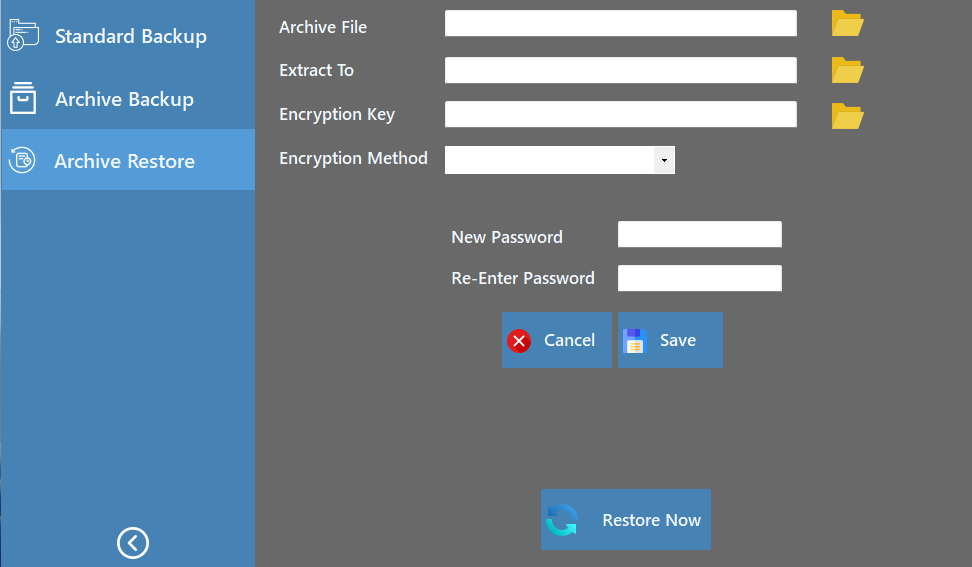
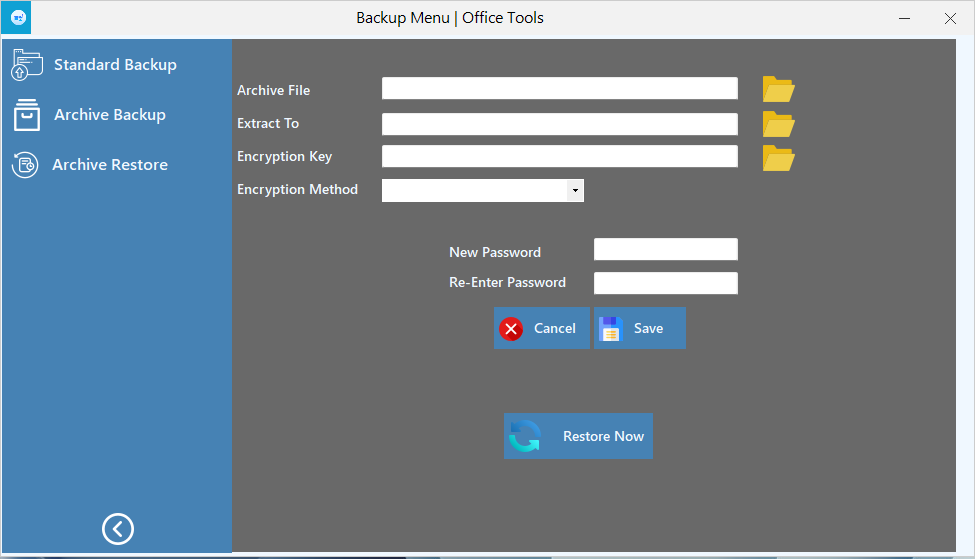
OfficeTools: Update Documentation

Changed region(s): [[0.0, 0.0, 1.0, 1.0], [0.463, 0.3649, 0.8025, 0.6691], [0.4938, 0.7299, 0.679, 0.8211]]

diff --git a/README.md b/README.md
@@ -1,11 +1,17 @@
 # Office Tools
-Customized application that have feature to backup your data with user preference time frames, by using windows task scheduler library, also have support with archiving folder that have feature to encrypt your password by using SHA-256 encryption. In addition by request, it also have feature with compress PDF file by using SyncFusion Library.
+Customized application that have feature to backup your data with user preference time frames, by using windows task scheduler library,
+also have support with archiving folder that have feature to encrypt your password by using SHA-256 encryption. 
+
+In addition by request, it also have feature with;
+- Compress, Merge and Split PDF file by using SyncFusion Library.
+- Export PDF into documents, spreadsheets and image file by using SautinSoft Library.
 
 # Additional library:
-- 7-Zip (7za Library)
+- 7-Zip (Archiver)
+- SautinSoft (PDF Export)
 - SHA-256 (Encryption / Decryption)
 - SyncFusion (PDF Compression)
-- Windows Task Scheduler (DLL)
+- Windows Task Scheduler (Automated Scheduler)
 
 # App Function
 - Normal Backup
@@ -60,15 +66,31 @@ Customized application that have feature to backup your data with user preferenc
   * Remove MetaData
   * Size (Before & After compression)
 
+- PDF Merge
+  * Source PDF
+  * Save Location
+  * PDF Merged Size
+
+- PDF Split
+  * Source PDF
+  * Save Location
+  
+- PDF Export
+  * Source PDF
+  * Save Location
+  * Export To (*.docx | *.xls | *.jpeg | *.png)
+  * Export Image only from PDF (*.jpeg | *.png)
+  
 # App Compatibility
 - [.NET Desktop Runtime 6.0](https://dotnet.microsoft.com/en-us/download/dotnet/6.0)
 
 # App Screenshoot
 <p align="left">
-<img width="480" height="240" src="https://raw.githubusercontent.com/Nicklas373/Office-Tools/main/Office%20Tools/Screenshots/Home.png">&nbsp;&nbsp;&nbsp;
-<img width="480" height="240" src="https://raw.githubusercontent.com/Nicklas373/Office-Tools/main/Office%20Tools/Screenshots/App_information.png">&nbsp;&nbsp;&nbsp;
-<img width="480" height="240" src="https://raw.githubusercontent.com/Nicklas373/Office-Tools/main/Office%20Tools/Screenshots/Weekly_scheduler.png">&nbsp;&nbsp;&nbsp;
-<img width="480" height="240" src="https://raw.githubusercontent.com/Nicklas373/Office-Tools/main/Office%20Tools/Screenshots/PDF_Compress.png">&nbsp;&nbsp;&nbsp;
+<img width="854" height="480" src="https://raw.githubusercontent.com/Nicklas373/Office-Tools/main/Office%20Tools/Screenshots/Home.png">&nbsp;&nbsp;&nbsp;
+<img width="854" height="480" src="https://raw.githubusercontent.com/Nicklas373/Office-Tools/main/Office%20Tools/Screenshots/Archive_backup.png">&nbsp;&nbsp;&nbsp;
+<img width="854" height="480" src="https://raw.githubusercontent.com/Nicklas373/Office-Tools/main/Office%20Tools/Screenshots/History.png">&nbsp;&nbsp;&nbsp;
+<img width="854" height="480" src="https://raw.githubusercontent.com/Nicklas373/Office-Tools/main/Office%20Tools/Screenshots/PDF_Compress.png">&nbsp;&nbsp;&nbsp;
+<img width="854" height="480" src="https://raw.githubusercontent.com/Nicklas373/Office-Tools/main/Office%20Tools/Screenshots/App_Description.png">&nbsp;&nbsp;&nbsp;
 </p>
 
 # Note
@@ -79,6 +101,7 @@ Customized application that have feature to backup your data with user preferenc
 
 # Additional References
 - [7-ZIP](https://www.7-zip.org/)
+- [SautinSoft](https://sautinsoft.com/products/pdf-focus/)
 - [SyncFusion](https://www.syncfusion.com/)
 
 # Image Source
